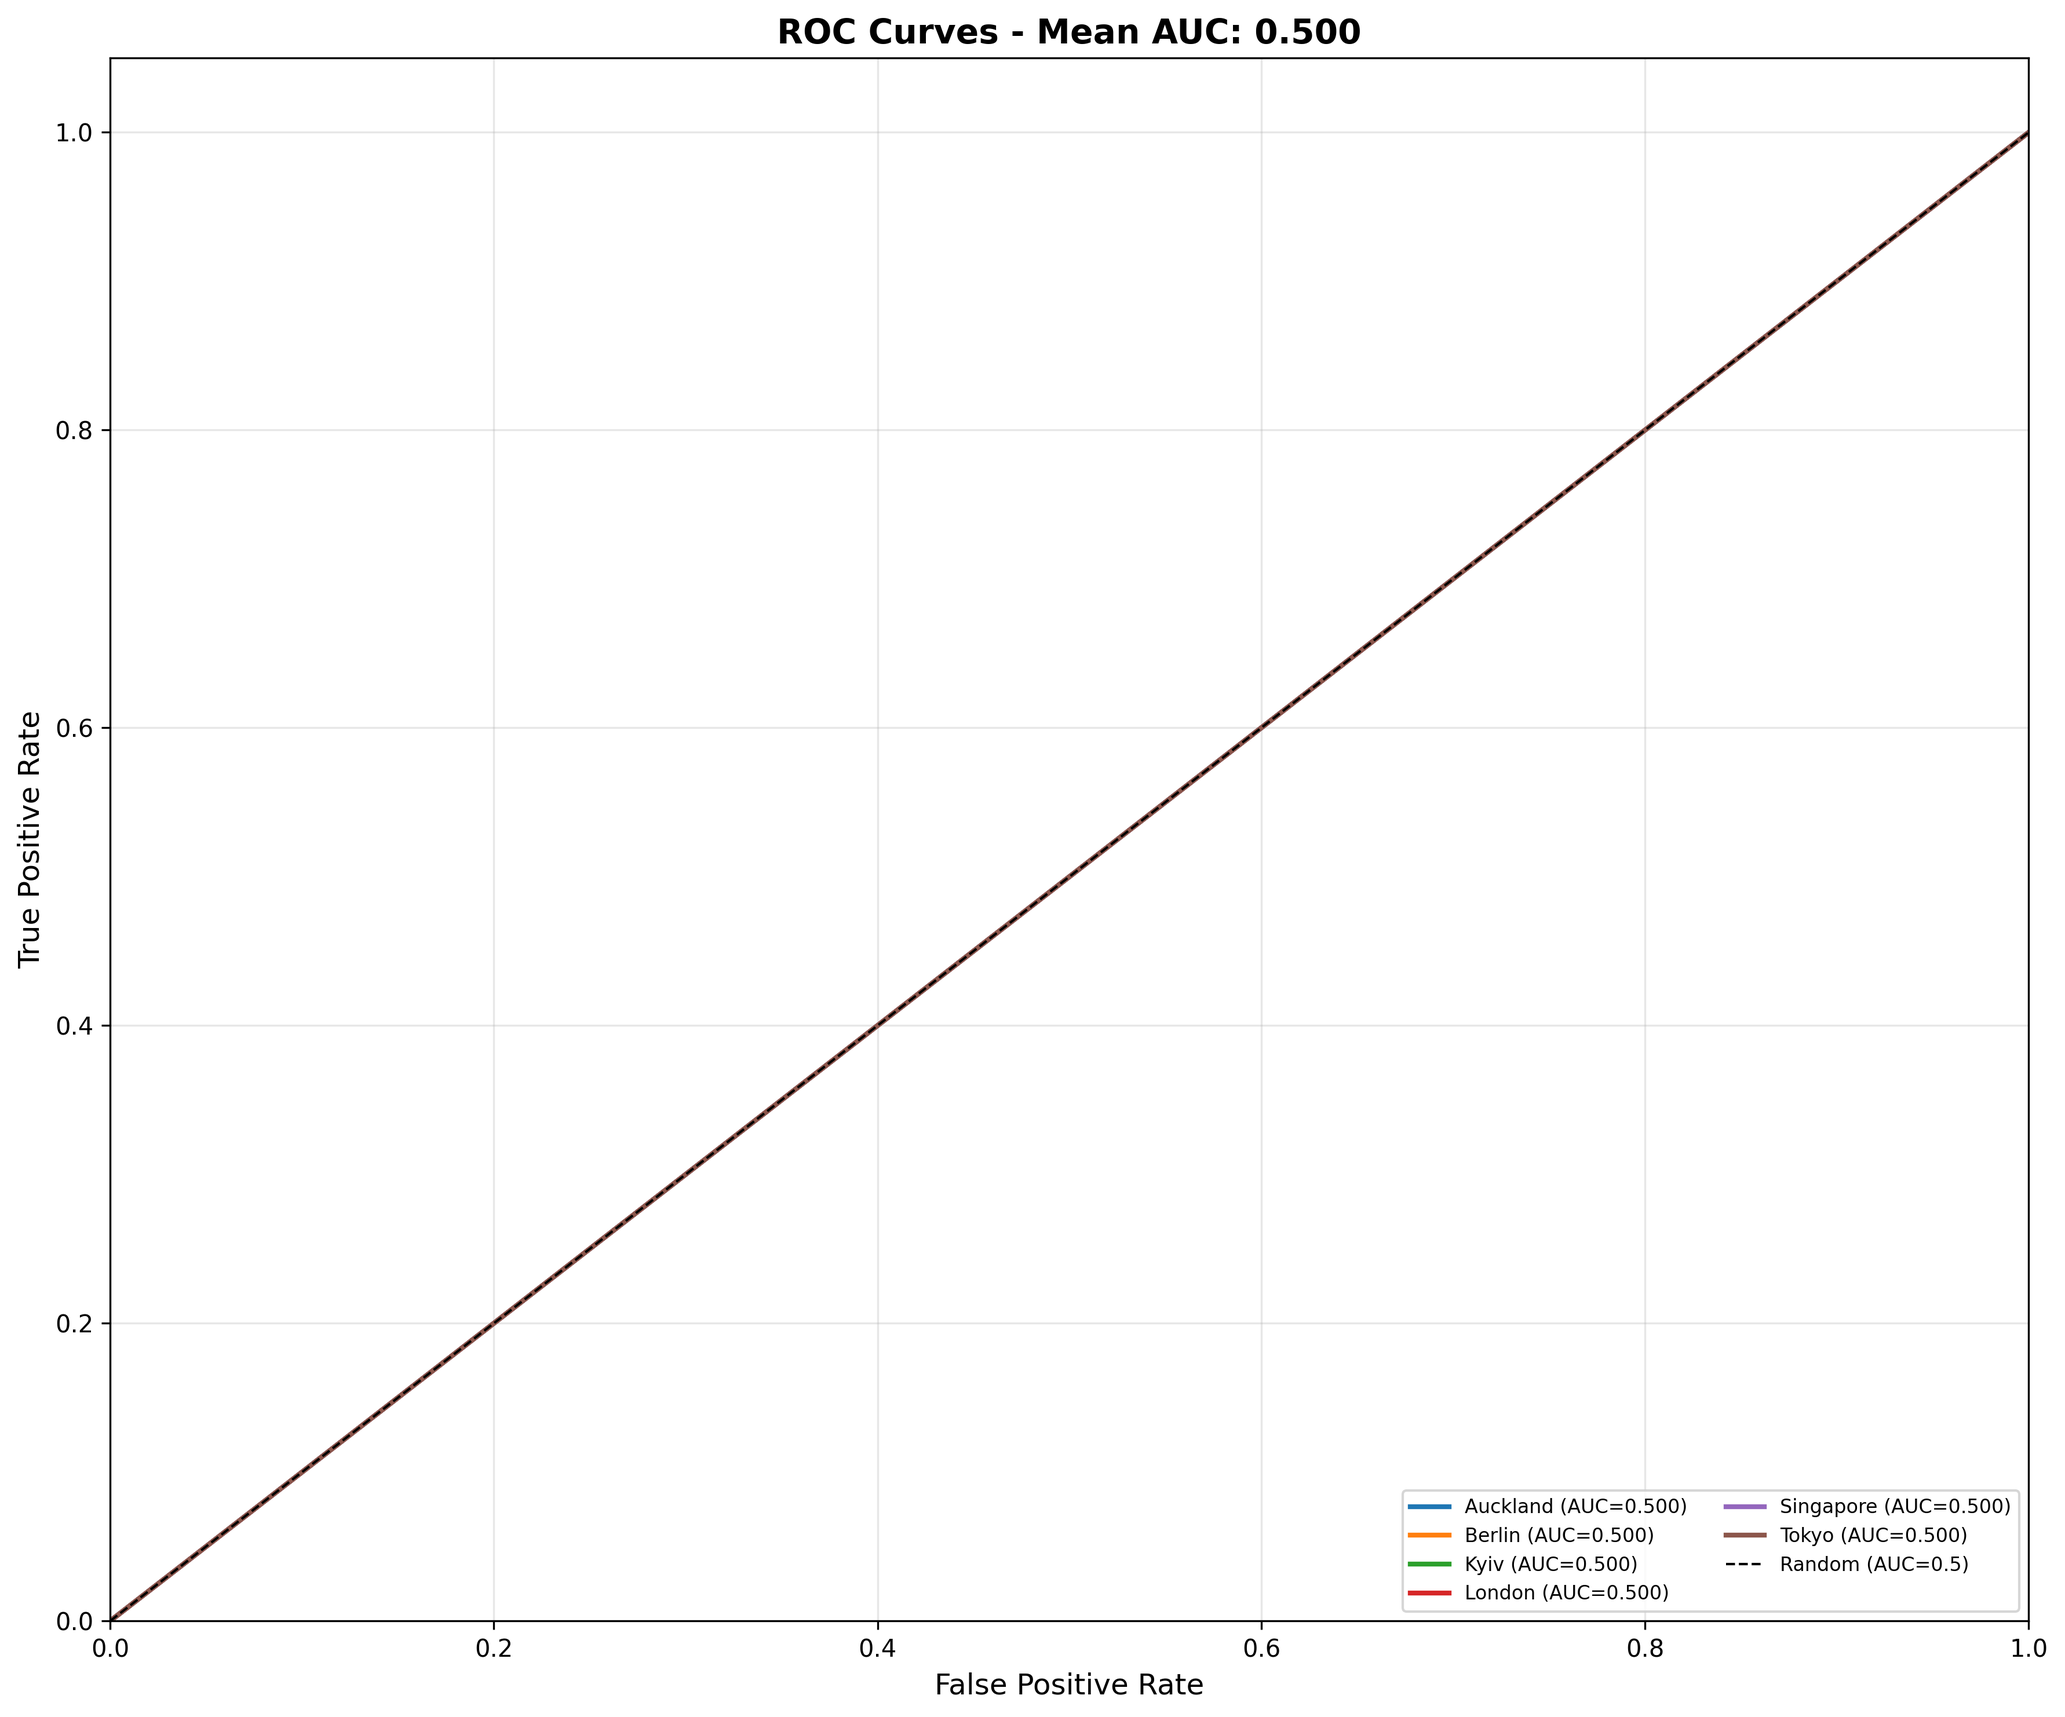
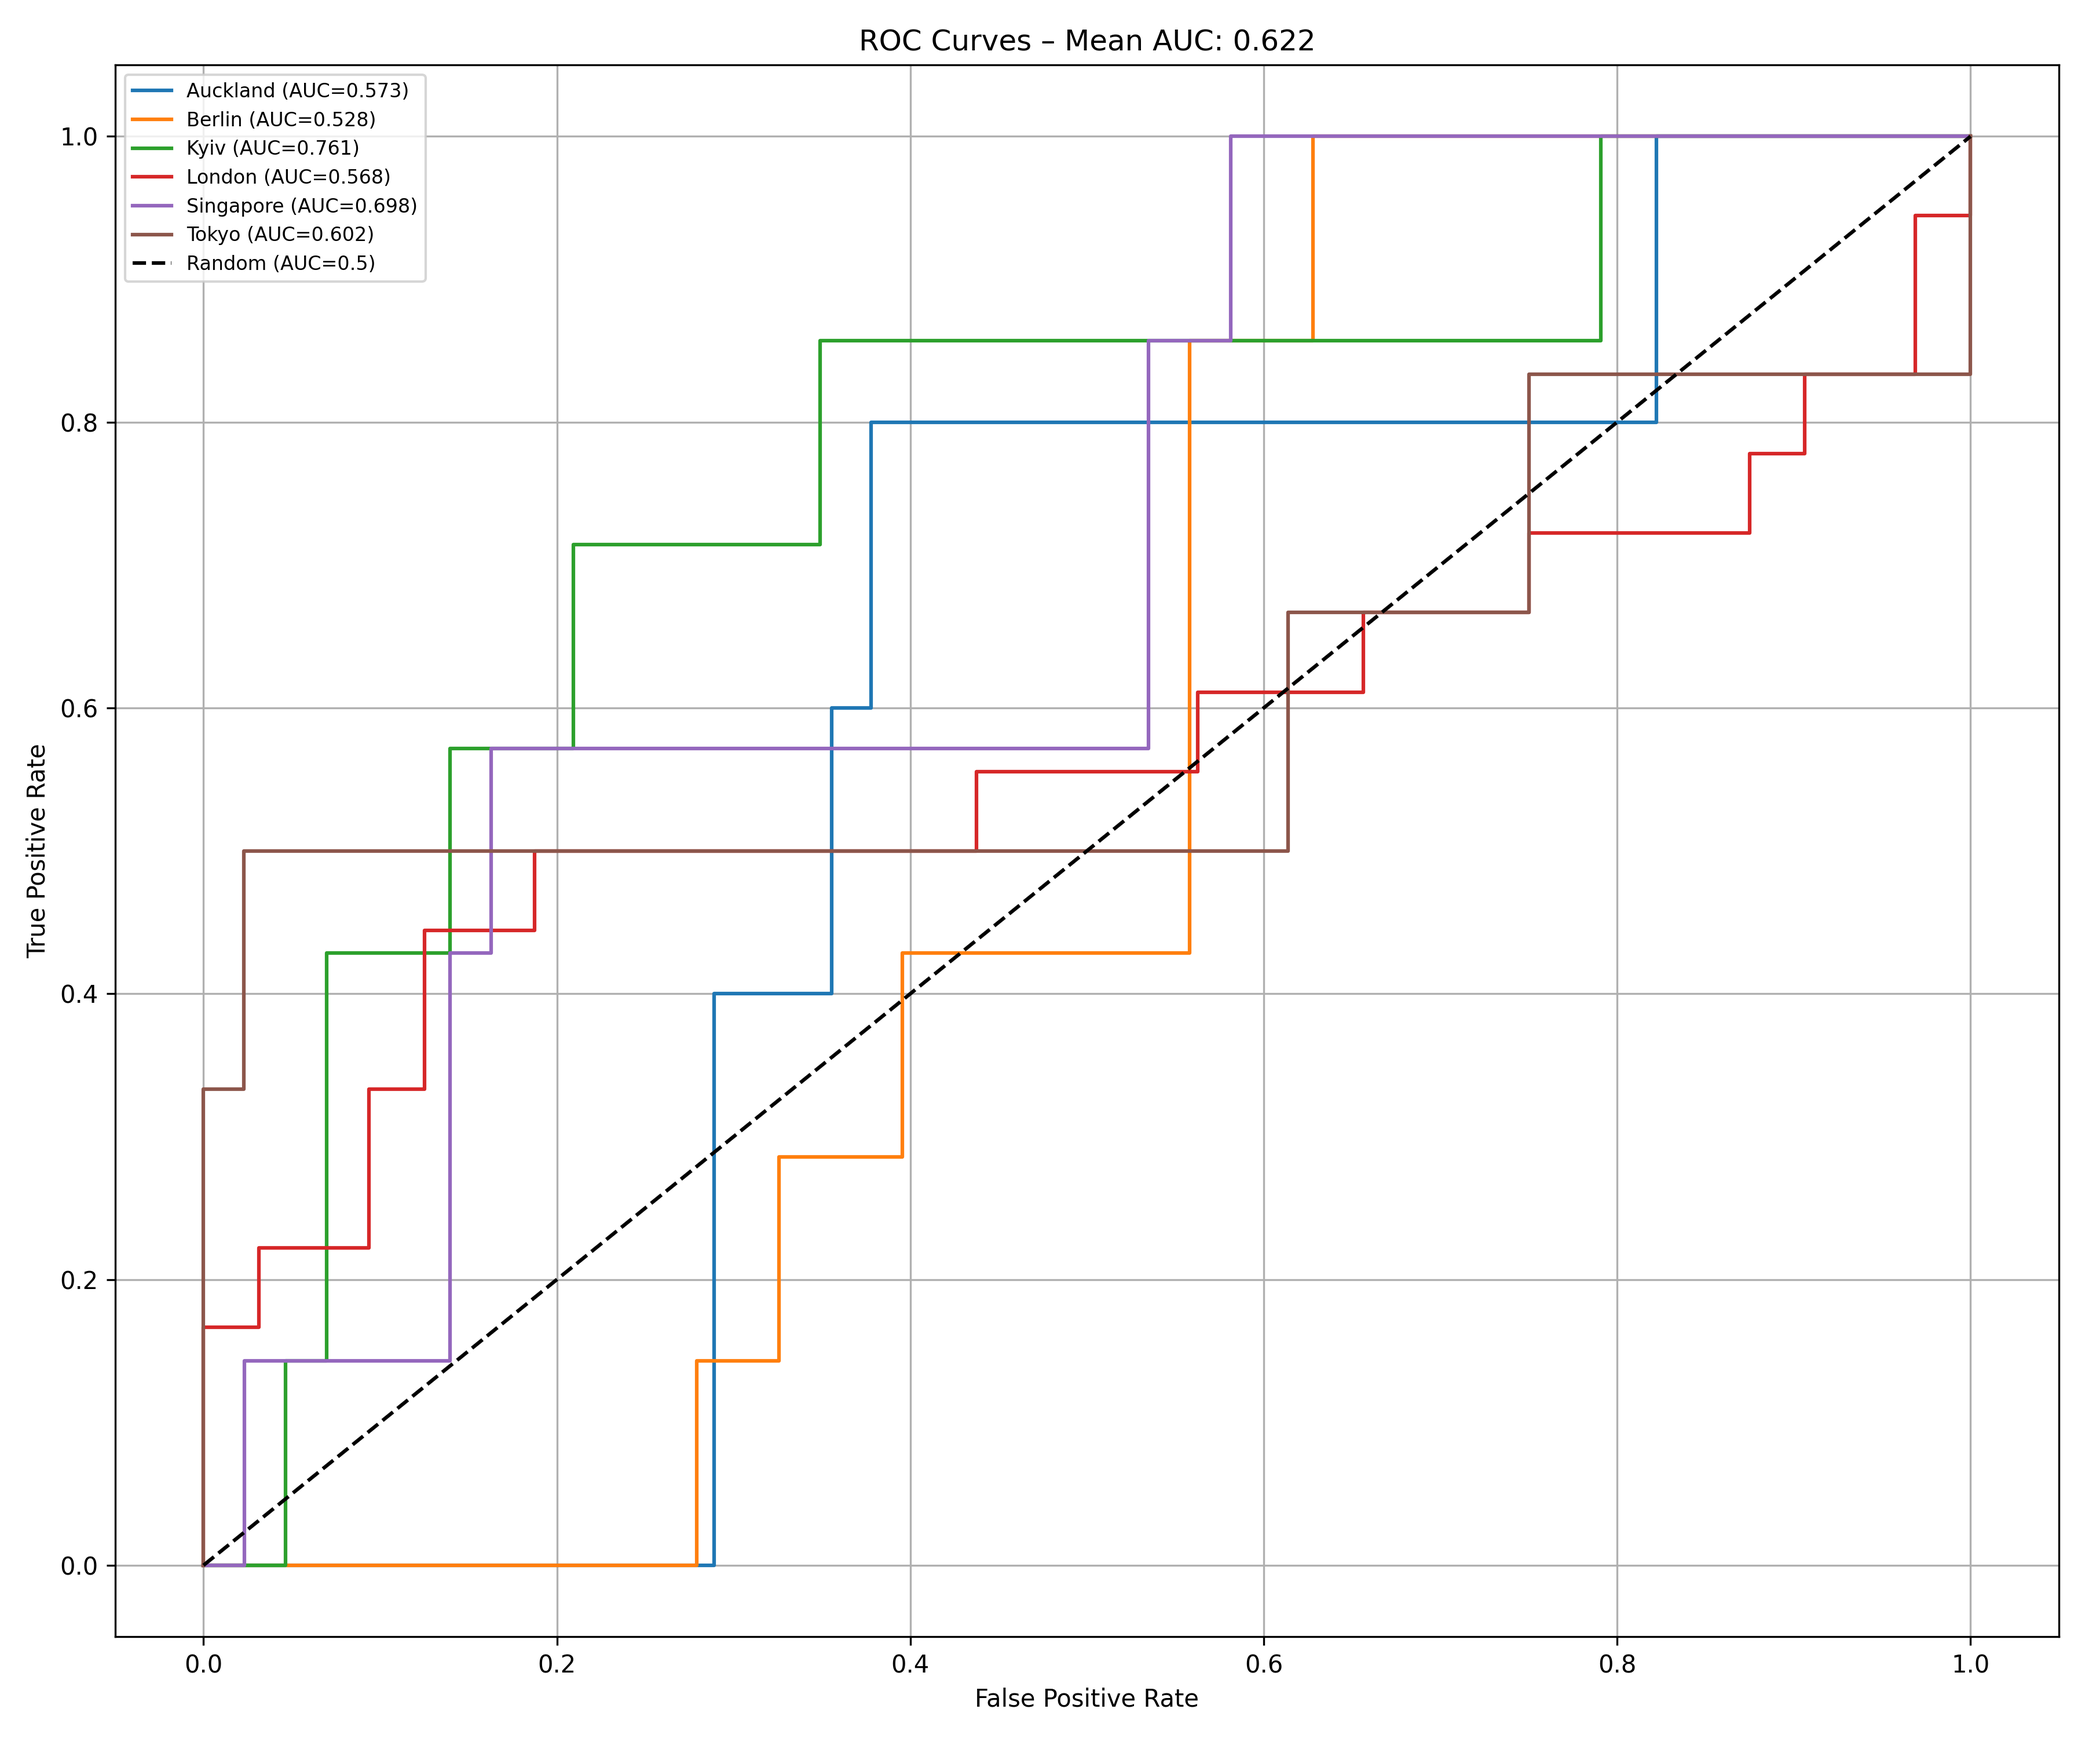
Working complete version. Befor opitmization of parameters.

diff --git a/src/plotting.py b/src/plotting.py
@@ -1,79 +1,126 @@
-import matplotlib.pyplot as plt
-import numpy as np
-import argparse
-
 def plot_roc_curves(predictions_file, ground_truth_file, output_file='roc_curves.png'):
-    """
-    Plot ROC curves for all classes.
-    """
     import csv
-    print(f'running plot_roc_curves')
-    # Load data
+    import numpy as np
+    import matplotlib.pyplot as plt
+    from pathlib import Path
+    import argparse
+    import numpy as np
+    print("=== DEBUG: LOADING DATA ===")
+    print(f"Predictions file: {predictions_file}")
+    print(f"Ground truth file: {ground_truth_file}")
+
+    # ---- Load predictions ----
     predictions = {}
-    classes = []
-    
+
     with open(predictions_file) as f:
         reader = csv.DictReader(f, delimiter='\t')
-        classes = [col for col in reader.fieldnames if col != 'fasta_file']
-        
+        print("Prediction columns:", reader.fieldnames)
+
+        if "fasta_file" not in reader.fieldnames:
+            print("ERROR: 'fasta_file' column missing in predictions TSV")
+            return
+
+        classes = [c for c in reader.fieldnames if c != "fasta_file"]
+        print(f"Detected classes ({len(classes)}):", classes)
+
         for row in reader:
-            sample = row['fasta_file']
-            predictions[sample] = {cls: float(row[cls]) for cls in classes}
+            sample = Path(row["fasta_file"]).name
+            try:
+                predictions[sample] = {cls: float(row[cls]) for cls in classes}
+            except ValueError:
+                print(f"WARNING: non-numeric score in row: {row}")
     
+    print(f"Loaded {len(predictions)} prediction samples")
+
+    # ---- Load ground truth ----
     ground_truth = {}
+
     with open(ground_truth_file) as f:
         reader = csv.DictReader(f, delimiter='\t')
+        print("Ground truth columns:", reader.fieldnames)
+
+        if "fasta_file" not in reader.fieldnames or "geo_loc_name" not in reader.fieldnames:
+            print("ERROR: ground truth TSV must contain 'fasta_file' and 'geo_loc_name'")
+            return
+
         for row in reader:
-            ground_truth[row['fasta_file']] = row['geo_loc_name']
-    
-    # Create figure
+            sample = Path(row["fasta_file"]).name
+            ground_truth[sample] = row["geo_loc_name"]
+
+
+    print(f"Loaded {len(ground_truth)} ground truth samples")
+
+    # ---- Check overlap ----
+    common = set(predictions) & set(ground_truth)
+    print(f"Samples in common: {len(common)}")
+
+    if len(common) == 0:
+        print("ERROR: No overlapping sample names between predictions and ground truth!")
+        print("Example prediction keys:", list(predictions.keys())[:3])
+        print("Example ground truth keys:", list(ground_truth.keys())[:3])
+        return
+
+    # ---- Plot ----
     plt.figure(figsize=(12, 10))
-    
     all_aucs = []
-    
-    # Plot ROC curve for each class
+
+    print("\n=== DEBUG: PER-CLASS ANALYSIS ===")
+
     for class_name in sorted(classes):
-        # Create binary labels
         y_true = []
         y_scores = []
-        
-        for sample in predictions.keys():
-            if sample in ground_truth:
-                y_true.append(1 if ground_truth[sample] == class_name else 0)
-                y_scores.append(predictions[sample][class_name])
-        
+
+        for sample in common:
+            y_true.append(1 if ground_truth[sample] == class_name else 0)
+            y_scores.append(predictions[sample][class_name])
+
         y_true = np.array(y_true)
         y_scores = np.array(y_scores)
-        
-        # Calculate ROC curve
+
+        n_pos = np.sum(y_true == 1)
+        n_neg = np.sum(y_true == 0)
+
+        print(f"\nClass: {class_name}")
+        print(f"  positives: {n_pos}, negatives: {n_neg}")
+        print(f"  score range: min={y_scores.min():.4f}, max={y_scores.max():.4f}")
+        print(f"  score mean: {y_scores.mean():.4f}")
+
+        if n_pos == 0 or n_neg == 0:
+            print("  WARNING: ROC undefined (no positives or no negatives)")
+            continue
+
         fpr, tpr, auc = calculate_roc_curve(y_true, y_scores)
         all_aucs.append(auc)
-        
-        # Plot
-        plt.plot(fpr, tpr, label=f'{class_name} (AUC={auc:.3f})', linewidth=2)
-    
-    # Add diagonal reference line (random classifier)
-    plt.plot([0, 1], [0, 1], 'k--', linewidth=1, label='Random (AUC=0.5)')
-    
-    # Formatting
-    plt.xlabel('False Positive Rate', fontsize=12)
-    plt.ylabel('True Positive Rate', fontsize=12)
-    plt.title(f'ROC Curves - Mean AUC: {np.mean(all_aucs):.3f}', fontsize=14, fontweight='bold')
-    plt.legend(loc='lower right', fontsize=8, ncol=2)
-    plt.grid(True, alpha=0.3)
-    plt.xlim([0.0, 1.0])
-    plt.ylim([0.0, 1.05])
-    
-    # Save
-    plt.tight_layout()
 
-    plt.savefig(output_file, dpi=300, bbox_inches='tight')
+        print(f"  AUC: {auc:.4f}")
+
+        plt.plot(fpr, tpr, label=f"{class_name} (AUC={auc:.3f})")
+
+    if len(all_aucs) == 0:
+        print("ERROR: No valid ROC curves could be computed")
+        return
+
+    print(f"\nMean AUC: {np.mean(all_aucs):.4f}")
+
+    # ---- Final plot formatting ----
+    plt.plot([0, 1], [0, 1], "k--", label="Random (AUC=0.5)")
+    plt.xlabel("False Positive Rate")
+    plt.ylabel("True Positive Rate")
+    plt.title(f"ROC Curves – Mean AUC: {np.mean(all_aucs):.3f}")
+    plt.legend(fontsize=8)
+    plt.grid(True)
+
+    plt.tight_layout()
+    plt.savefig(output_file, dpi=300)
     plt.close()
-    print(f"ROC curves saved to {output_file}")
+
+    print(f"\nROC curves saved to: {output_file}")
+
 
 
 
 def calculate_roc_curve(y_true, y_scores):
+    import numpy as np
     """Calculate FPR, TPR, and AUC."""
     
     thresholds = np.unique(y_scores)
@@ -111,3 +158,17 @@ def calculate_roc_curve(y_true, y_scores):
     
     return fpr, tpr, auc
 
+if __name__ == "__main__":
+
+    parser = argparse.ArgumentParser()
+    parser.add_argument("prediction_tsv")
+    parser.add_argument("ground_truth_tsv")
+    parser.add_argument('output_name', type=int, default = 'roc_curves.png')
+
+    args = parser.parse_args()
+    
+    plot_roc_curves(
+        args.prediction_tsv,
+        args.ground_truth_tsv,
+        args.output_name
+    )
